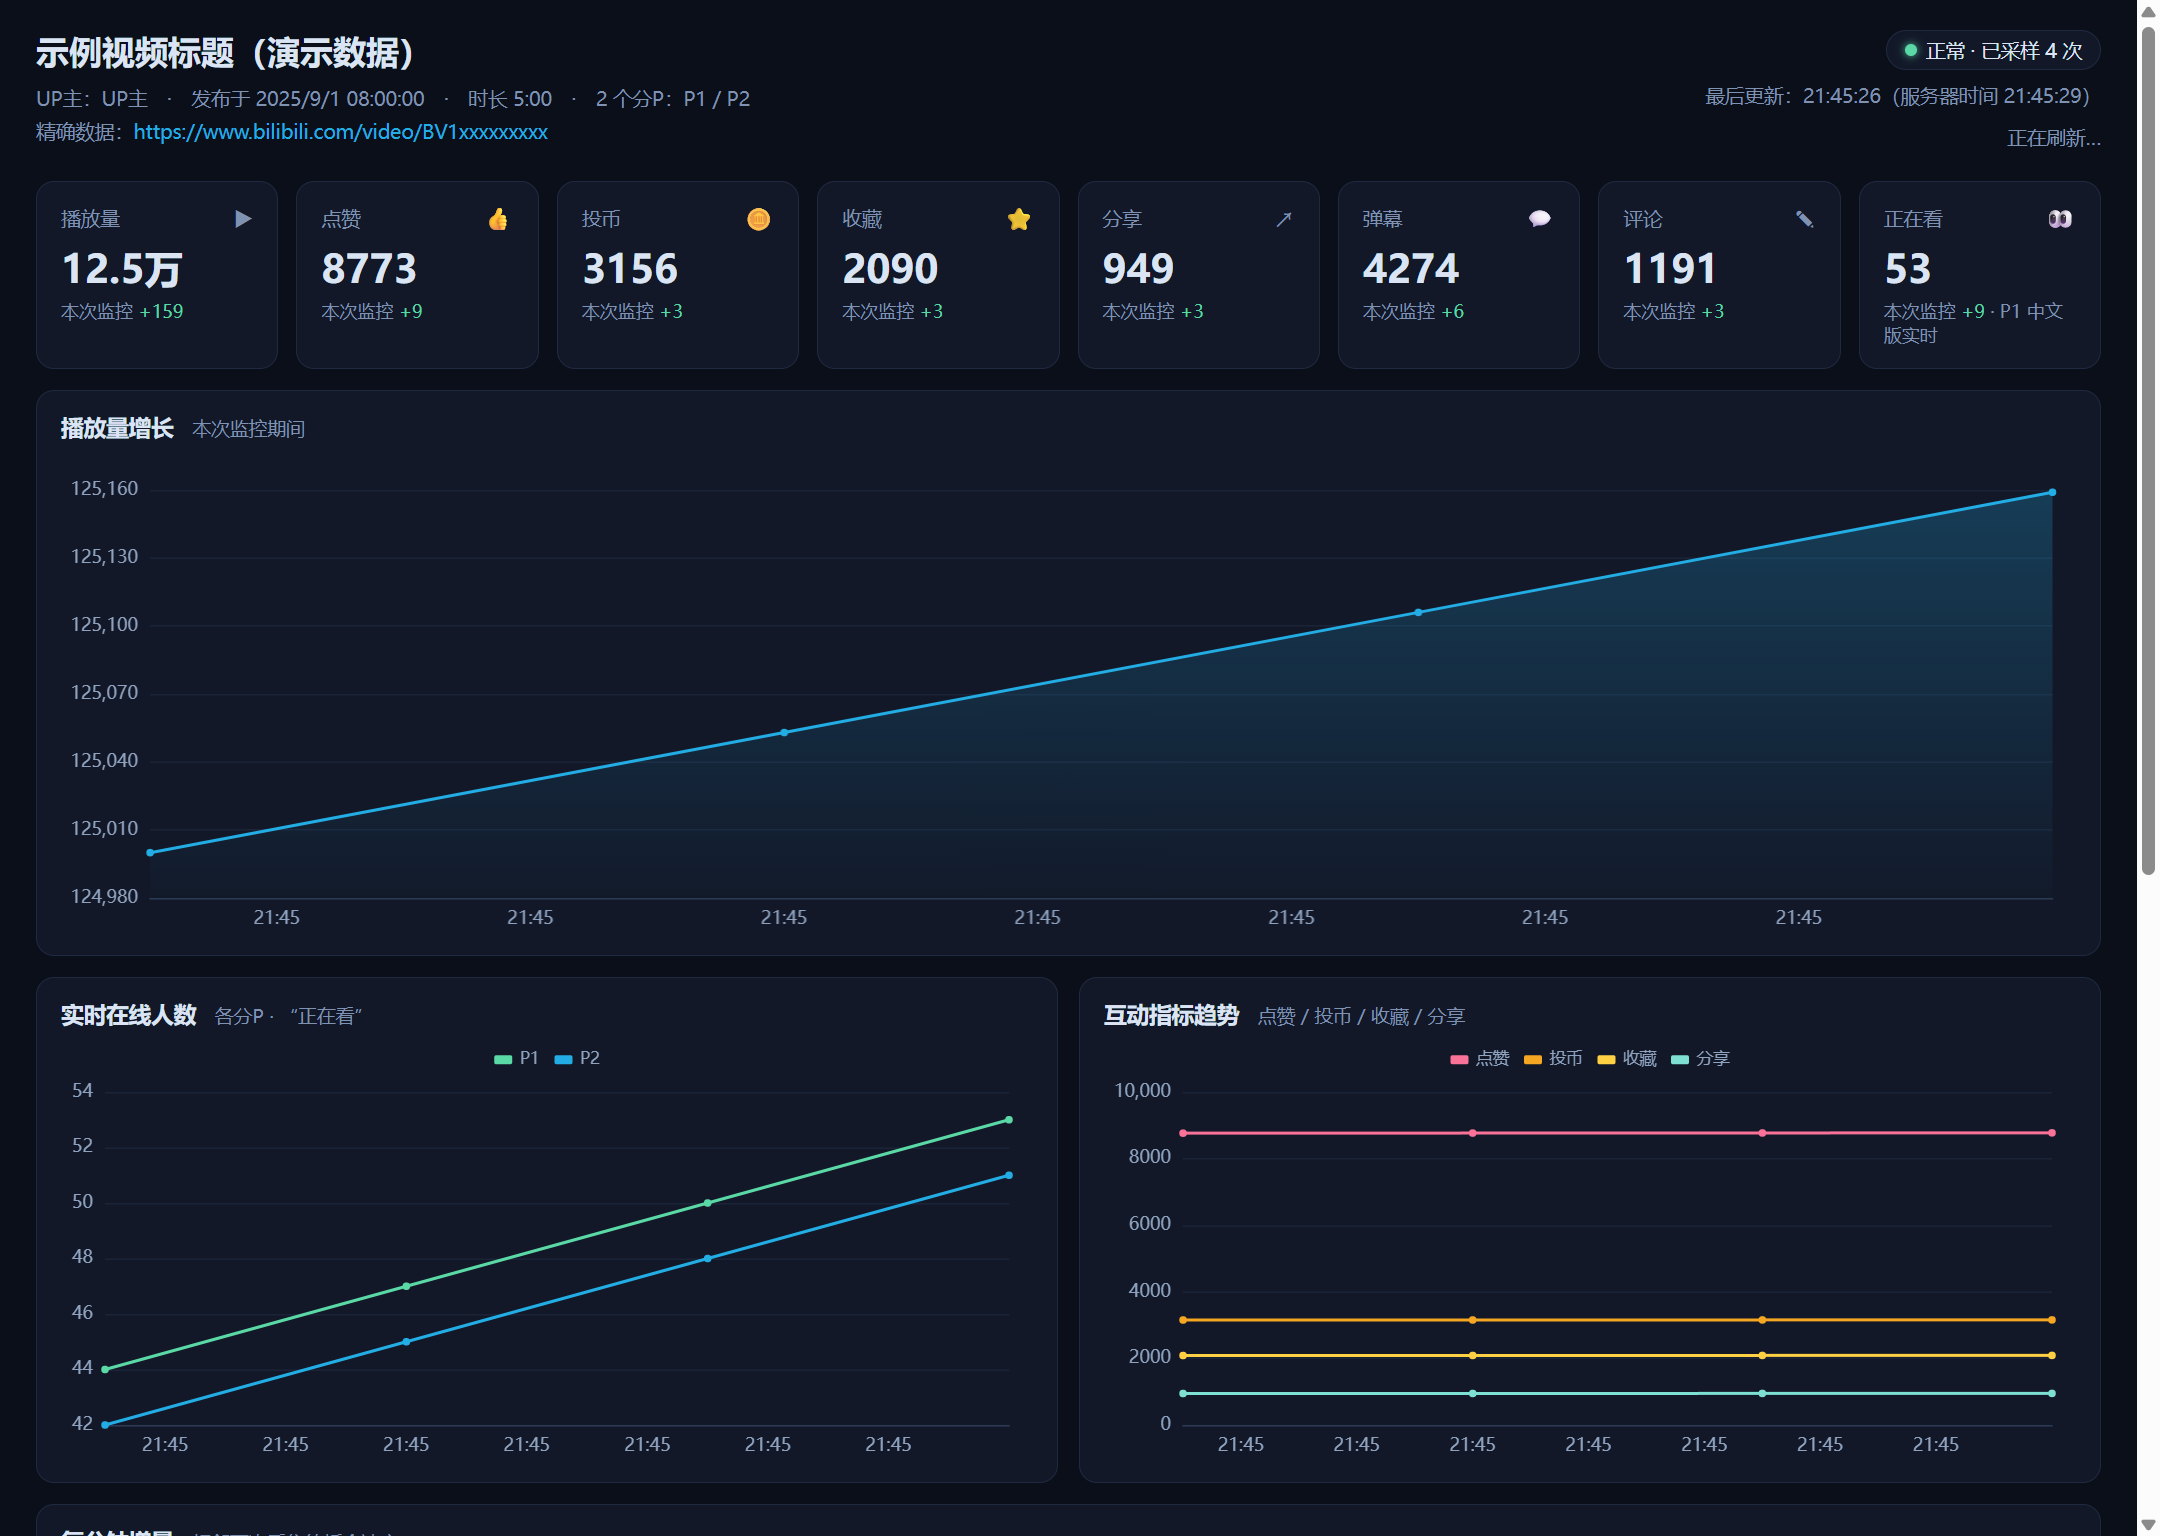
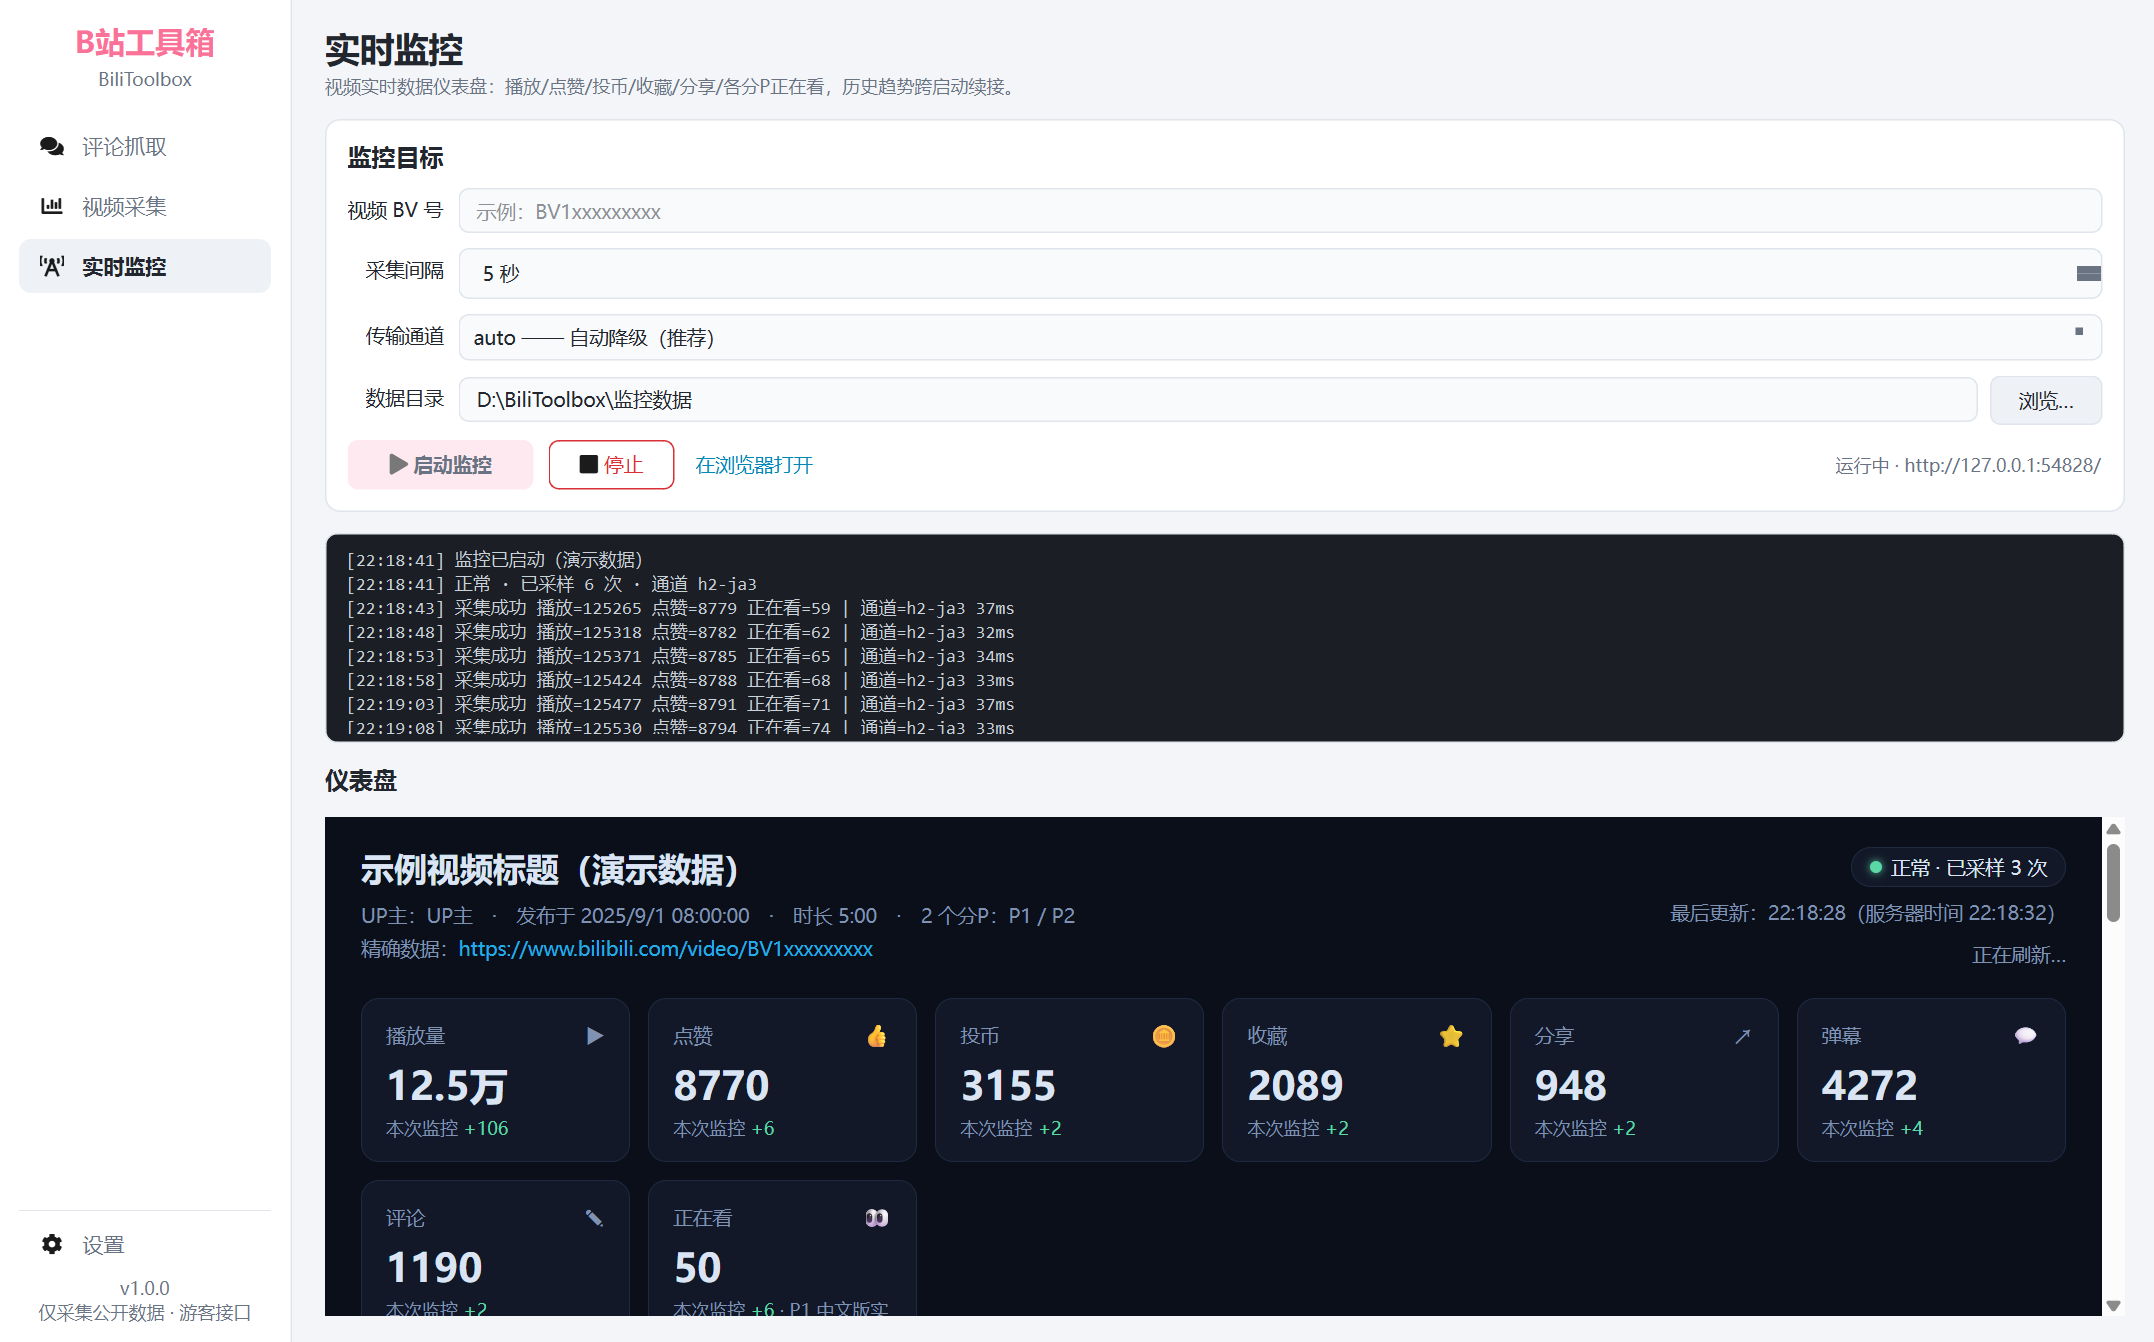
docs: 监控页截图改为完整应用页面（与另两张一致，演示数据）

diff --git a/scripts/take_screenshots.py b/scripts/take_screenshots.py
@@ -1,14 +1,19 @@
 # -*- coding: utf-8 -*-
 """生成 README 截图（浅色主题 + 演示数据，无真实目标信息）。开发期工具。
 
-运行前设置环境变量 BILITOOLBOX_SHOT_BVID 为任意真实视频 BV 号（仅用于
-内部拉取数据，截图展示层会自动替换为演示文案）。
+用法：
+    set BILITOOLBOX_SHOT_BVID=<任意真实视频BV号>
+    python scripts/take_screenshots.py     # 窗口会实际显示约 40 秒
+
+评论/采集页由本进程直接抓取；监控页因 WebEngine 与 win.grab() 同用会崩溃，
+故窗口保持显示，由外部脚本按 ready 文件里的窗口矩形做屏幕抓取，抓完后
+本进程自动退出。
 """
 import os
 import sys
 import time
 
-import app.env  # noqa: F401
+import app.env  # noqa: F401  # QtWebEngine 必须先于 QApplication
 from PySide6.QtCore import Qt, QTimer
 from PySide6.QtWidgets import QApplication, QMessageBox
 
@@ -16,7 +21,7 @@ SHOT_BVID = os.environ.get("BILITOOLBOX_SHOT_BVID")
 if not SHOT_BVID:
     raise SystemExit("请先设置 BILITOOLBOX_SHOT_BVID（任意真实视频 BV 号）")
 
-QMessageBox.information = staticmethod(lambda *a, **k: None)
+READY_FILE = os.path.abspath("data/shot_ready.txt")
 
 app = QApplication([])
 from app.theme import apply
@@ -29,11 +34,10 @@ cfg["out_dir"] = "D:\\BiliToolbox"
 from app.main_window import MainWindow
 
 win = MainWindow(cfg)
-win.setAttribute(Qt.WA_DontShowOnScreen, True)
 win.resize(1440, 900)
 win.show()
 
-# ---- 监控页采集数据去标识：真实拉取后即刻改写为演示数据 ----
+# ---- 监控采集数据去标识：真实拉取后即刻改写为演示数据 ----
 import tools.monitor.server as ms
 
 _orig_collect = ms.MonitorServer.collect_once
@@ -42,13 +46,11 @@ _orig_collect = ms.MonitorServer.collect_once
 def fake_collect(self, bvid):
     meta, sample = _orig_collect(self, bvid)
     n = len(self.state.samples)
-    meta.update({
-        "bvid": "BV1xxxxxxxxx", "aid": 0, "title": "示例视频标题（演示数据）",
-        "owner": "UP主", "owner_mid": 0, "pubdate": 1756684800,
-        "desc": "", "pic": None, "videos": 2,
-        "pages": [{"cid": 1, "page": 1, "part": "P1", "duration": 180},
-                  {"cid": 2, "page": 2, "part": "P2", "duration": 120}],
-    })
+    meta.update({"bvid": "BV1xxxxxxxxx", "aid": 0, "title": "示例视频标题（演示数据）",
+                 "owner": "UP主", "owner_mid": 0, "pubdate": 1756684800, "desc": "",
+                 "pic": None, "videos": 2, "duration": 300,
+                 "pages": [{"cid": 1, "page": 1, "part": "P1", "duration": 180},
+                           {"cid": 2, "page": 2, "part": "P2", "duration": 120}]})
     sample["bvid"] = "BV1xxxxxxxxx"
     sample["view"] = 125000 + n * 53
     sample["like"] = 8764 + n * 3
@@ -58,56 +60,57 @@ def fake_collect(self, bvid):
     sample["danmaku"] = 4268 + n * 2
     sample["reply"] = 1188 + n
     sample["online"] = 44 + n * 3
-    for idx, op in enumerate(sample.get("online_pages", [])):
+    ops = sample.get("online_pages", [])[:2]
+    for idx, op in enumerate(ops):
         op["part"] = f"P{idx + 1}"
         op["total"] = 44 + n * 3 - idx * 2
         op["count"] = 31 + idx
+    sample["online_pages"] = ops
     return meta, sample
 
 
 ms.MonitorServer.collect_once = fake_collect
 
-jobs_done = []
-
 
 def shoot_comments():
     win.switch(0)
-    p = win.pages[0]
-    p.link_edit.setText("示例：参考视频链接")
+    win.pages[0].link_edit.setText("示例：参考视频链接")
     QTimer.singleShot(900, lambda: (win.grab().save("docs/screenshots/comments.png"),
-                                    print("comments ok"), shoot_collector()))
+                                    print("comments ok", flush=True), shoot_collector()))
 
 
 def shoot_collector():
     win.switch(1)
     QTimer.singleShot(900, lambda: (win.grab().save("docs/screenshots/collector.png"),
-                                    print("collector ok"), shoot_monitor()))
+                                    print("collector ok", flush=True), prep_monitor()))
 
 
-def shoot_monitor():
+def prep_monitor():
+    """准备监控页：启动演示数据服务并刷新视图，然后写 ready 文件供外部抓屏。"""
     win.switch(2)
     p = win.pages[2]
-    p.bvid_edit.setText(SHOT_BVID)  # 内部用真实 BV 拉取，展示层已去标识
+    p.bvid_edit.setText(SHOT_BVID)
     p.interval_spin.setValue(5)
     p.data_row.set_value("D:\\BiliToolbox\\监控数据")
     p.on_start()
     p.bvid_edit.setText("")
     p.log_panel.clear()
-    p.log_panel.append("监控已启动（演示数据），每 5 秒采样一次…")
-    p.log_panel.append("仪表盘加载中…")
+    p.log_panel.append("监控已启动（演示数据）")
 
     def reload_view():
         if p.view is not None:
             p.view.reload()
-        QTimer.singleShot(8000, finish)
+        QTimer.singleShot(9000, write_ready)
 
-    def finish():
+    def write_ready():
         p.log_panel.clear()
-        p.log_panel.append("已启动监控（演示数据）")
+        p.log_panel.append("监控已启动（演示数据）")
         p.log_panel.append("正常 · 已采样 6 次 · 通道 h2-ja3")
-        ok = win.grab().save("docs/screenshots/monitor.png")
-        print("monitor ok:", ok)
-        app.quit()
+        g = win.frameGeometry()
+        info = f"{os.getpid()} {g.x()} {g.y()} {g.width()} {g.height()} {win.devicePixelRatioF()}"
+        with open(READY_FILE, "w", encoding="utf-8") as fh:
+            fh.write(info)
+        print("ready:", info, flush=True)
 
     QTimer.singleShot(14000, reload_view)
 
